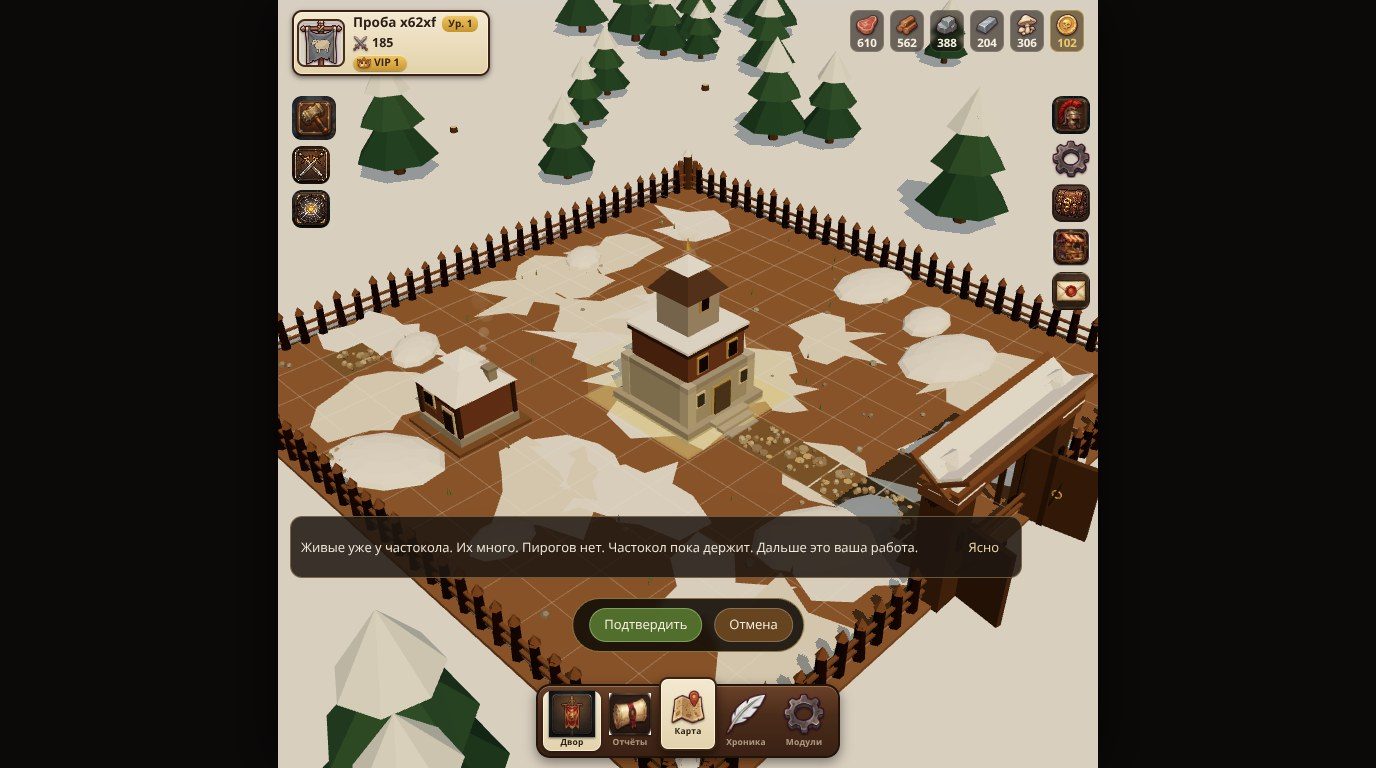
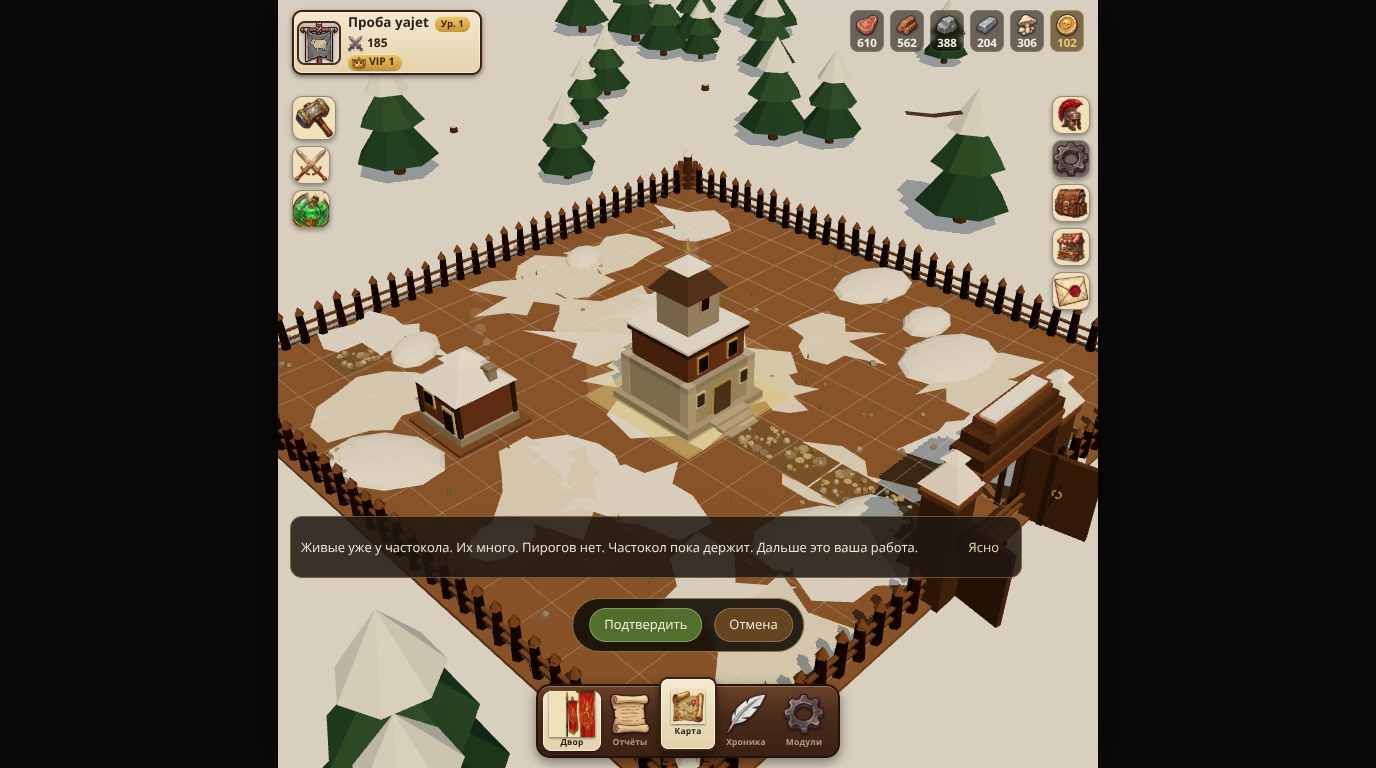
Раунд 5: наезд ресурсов вылечен (absolute->flex в court-mode), иконки «крем-предмет» без рамки (10 шт., исследование = колба), fmt: млн/млрд, ворота — ступенчатый фронтон вместо «балок»

diff --git a/apps/client/src/hud.css b/apps/client/src/hud.css
@@ -26,14 +26,23 @@
 
 /* ---------- панель персонажа: по прототипу docs/game/ui/hud (круг 15):
    портрет-ячейка 38px, ник, «Ур.» с полосой опыта, VIP-значок с короной ---------- */
-.hud-lord {
+.hud-top {
   position: fixed;
   left: 8px;
+  right: 8px;
   top: calc(6px + env(safe-area-inset-top));
   z-index: 20;
-  display: grid;
-  grid-template-columns: 44px 1fr;
+  display: flex;
   gap: 8px;
+  align-items: flex-start;
+}
+
+.hud-lord {
+  flex: 0 1 auto;
+  min-width: 0;
+  display: grid;
+  grid-template-columns: 40px 1fr;
+  gap: 7px;
   align-items: center;
   padding: 3px 10px 3px 3px;
   background: linear-gradient(180deg, #f3e9d0, #e3d2ab);
@@ -45,8 +54,8 @@
 
 .hud-lord .portrait {
   position: relative;
-  width: 44px;
-  height: 44px;
+  width: 40px;
+  height: 40px;
   border-radius: 8px;
   display: grid;
   place-items: center;
@@ -56,8 +65,8 @@
 }
 
 .hud-lord .portrait .hud-ic {
-  width: 42px;
-  height: 42px;
+  width: 38px;
+  height: 38px;
   object-fit: cover;
 }
 
@@ -78,8 +87,8 @@
 }
 
 .hud-lord .name-row b {
-  max-width: 108px;
-  font-size: 13px;
+  max-width: 96px;
+  font-size: 12.5px;
   line-height: 1.1;
   white-space: nowrap;
   overflow: hidden;
@@ -96,7 +105,7 @@
 
 .hud-lord .lvl-tag {
   font-style: normal;
-  font-size: 10px;
+  font-size: 9.5px;
   font-weight: 800;
   color: #3b2416;
   background: linear-gradient(180deg, #f0c866, #c8952e);
@@ -120,7 +129,7 @@
 }
 
 .hud-lord .power-row b {
-  font-size: 12.5px;
+  font-size: 12px;
   font-variant-numeric: tabular-nums;
 }
 
@@ -182,15 +191,16 @@
 /* ---------- ресурсы: правый верхний угол, колонкой (круг 17):
    иконка сверху, число под ней; зазор между чипами плотнее ---------- */
 .hud-res {
-  position: fixed;
-  left: calc(196px + env(safe-area-inset-left));
-  right: 8px;
-  top: calc(6px + env(safe-area-inset-top));
-  z-index: 20;
+  margin-left: auto;
   display: flex;
   gap: 5px;
   flex-wrap: nowrap;
   justify-content: flex-end;
+  min-width: 0;
+}
+
+.hud-res .chip b {
+  white-space: nowrap;
 }
 
 .hud-res .chip {
@@ -447,10 +457,6 @@
 
 /* узкие телефоны (<390): всё чуть плотнее, квадраты сохраняются */
 @media (max-width: 389px) {
-  .hud-res {
-    left: calc(150px + env(safe-area-inset-left));
-  }
-
   .hud-lord .portrait {
     width: 32px;
     height: 32px;
@@ -488,7 +494,7 @@
   }
 
   .hud-lord .name-row b {
-    max-width: 84px;
+    max-width: 78px;
   }
 
   .hud-rb {
@@ -535,22 +541,18 @@
 
 /* большие телефоны и малые планшеты (431–767): элементы крупнее */
 @media (min-width: 431px) {
-  .hud-res {
-    left: calc(216px + env(safe-area-inset-left));
-  }
-
   .hud-lord {
-    grid-template-columns: 48px 1fr;
+    grid-template-columns: 44px 1fr;
   }
 
   .hud-lord .portrait {
-    width: 48px;
-    height: 48px;
+    width: 44px;
+    height: 44px;
   }
 
   .hud-lord .portrait .hud-ic {
-    width: 46px;
-    height: 46px;
+    width: 42px;
+    height: 42px;
   }
 
   .hud-lord .name-row b {
@@ -616,12 +618,8 @@
 
 /* планшеты и десктоп: больше воздуха по краям (сцена и так до 820px) */
 @media (min-width: 768px) {
-  .hud-lord {
+  .hud-top {
     left: 14px;
-    top: calc(10px + env(safe-area-inset-top));
-  }
-
-  .hud-res {
     right: 14px;
     top: calc(10px + env(safe-area-inset-top));
   }
@@ -953,12 +951,11 @@
 .hud-queue,
 .hud-tab {
   padding: 0;
-  background: transparent;
-  border: none;
-  box-shadow: none;
-  backdrop-filter: none;
-  -webkit-backdrop-filter: none;
+  background: rgba(24, 15, 9, 0.55);
+  border: 1.5px solid rgba(239, 227, 198, 0.3);
+  box-shadow: 0 2px 5px rgba(0, 0, 0, 0.4);
   overflow: hidden;
+  border-radius: 10px;
 }
 
 .hud-rb .hud-ic,
@@ -966,6 +963,5 @@
 .hud-tab .hud-ic {
   width: 100%;
   height: 100%;
-  border-radius: 10px;
   object-fit: cover;
 }

diff --git a/apps/client/src/ui/Hud.tsx b/apps/client/src/ui/Hud.tsx
@@ -26,7 +26,7 @@ type PanelKind = "build" | "train" | "sci" | "commanders" | "clan" | "items" | "
     Все иконки HUD уникальны — повторов нет (круг 18). */
 const QUEUES: { kind: "train" | "sci"; icon: string; key: string }[] = [
   { kind: "train", icon: "swords", key: "shell.hud.queue.train" },
-  { kind: "sci", icon: "web", key: "shell.hud.queue.sci" },
+  { kind: "sci", icon: "flask", key: "shell.hud.queue.sci" },
 ];
 
 /** Правая колонка — служебные механики (решение заказчика из круга 4):
@@ -40,10 +40,10 @@ const TABS: { kind: Exclude<PanelKind, "build" | "train" | "sci" | null>; icon: 
 ];
 
 /** Короткий формат чисел: миллионы и миллиарды не ломают строку ресурсов (круг 15). */
+// числа (раунд 5): полностью до 100 999 999; сотни млн — «NNN млн»; миллиарды — «1.2 млрд»
 const fmt = (n: number) =>
-  n >= 1e9 ? `${(n / 1e9).toFixed(n % 1e9 ? 1 : 0)}B` :
-  n >= 1e6 ? `${(n / 1e6).toFixed(n % 1e6 ? 1 : 0)}M` :
-  n >= 1e4 ? `${(n / 1e3).toFixed(n % 1e3 ? 1 : 0)}K` :
+  n >= 1e9 ? `${(n / 1e9).toFixed(n % 1e9 ? 1 : 0)} млрд` :
+  n >= 1e8 ? `${Math.floor(n / 1e6)} млн` :
   String(n);
 
 /** Целевое левое меню (требования заказчика, круг 14) рисуется только из данных систем:
@@ -113,6 +113,8 @@ export function Hud({
     <>
       {/* панель персонажа по прототипу HUD: портрет-ячейка, ник, «Ур.» + полоса опыта, VIP.
           Уровень, опыт и VIP появят системы (этап C/D) — пока вид с честными стартовыми значениями. */}
+      {/* верхняя строка: карточка лорда и ресурсы — flex не даёт им пересечься */}
+      <div className="hud-top">
       {me ? (
         <div className="hud-lord">
           <span className="portrait" style={{ background: swatch(me.bannerColor) }}>
@@ -147,6 +149,7 @@ export function Hud({
             <b>{fmt(amount)}</b>
           </span>
         ))}
+      </div>
       </div>
 
       {/* левая панель: «Строить» и очереди (карта одна — в нижнем доке, круг 17) */}

diff --git a/apps/client/src/court/CourtScene.tsx b/apps/client/src/court/CourtScene.tsx
@@ -475,23 +475,27 @@ function Gatehouse() {
           </mesh>
         </group>
       ))}
-      {/* перемычка на башнях и двускатная крышка над воротами */}
+      {/* перемычка между башнями и ступенчатый фронтон: над проездом не нависает */}
       <mesh position={[7.7, 2.52, 0]} castShadow>
-        <boxGeometry args={[0.76, 0.24, 4.1]} />
+        <boxGeometry args={[0.72, 0.26, 2.68]} />
         <meshStandardMaterial color={C.logTip} roughness={0.95} />
       </mesh>
-      {[-1, 1].map((s) => (
-        <group key={`rf${s}`}>
-          <mesh position={[7.7 + s * 0.16, 2.82, 0]} rotation-z={s * 0.58} castShadow>
-            <boxGeometry args={[0.95, 0.07, 4.3]} />
-            <meshStandardMaterial color={C.logTip} roughness={0.9} flatShading />
-          </mesh>
-          <mesh position={[7.7 + s * 0.13, 2.88, 0]} rotation-z={s * 0.58}>
-            <boxGeometry args={[0.64, 0.05, 4.2]} />
-            <meshStandardMaterial color="#fbf8f0" roughness={0.8} flatShading />
-          </mesh>
-        </group>
-      ))}
+      <mesh position={[7.7, 2.78, 0]} castShadow>
+        <boxGeometry args={[0.66, 0.24, 2.6]} />
+        <meshStandardMaterial color={C.gate} roughness={0.95} flatShading />
+      </mesh>
+      <mesh position={[7.7, 3.02, 0]} castShadow>
+        <boxGeometry args={[0.56, 0.22, 2.2]} />
+        <meshStandardMaterial color={C.gate} roughness={0.95} flatShading />
+      </mesh>
+      <mesh position={[7.7, 3.24, 0]} castShadow>
+        <boxGeometry args={[0.44, 0.2, 1.8]} />
+        <meshStandardMaterial color={C.logTip} roughness={0.95} flatShading />
+      </mesh>
+      <mesh position={[7.7, 3.36, 0]}>
+        <boxGeometry args={[0.3, 0.06, 1.66]} />
+        <meshStandardMaterial color="#fbf8f0" roughness={0.8} flatShading />
+      </mesh>
       {/* фонарь под перемычкой — тёплая точка у входа */}
       <group position={[7.4, 0, 0]}>
         <mesh position={[0.09, 2.34, 0]}>

diff --git a/apps/client/src/ui/iconSrc.ts b/apps/client/src/ui/iconSrc.ts
@@ -1,20 +1,20 @@
 /**
- * Иконки интерфейса — сгенерированные плитки (арт занимает ячейку целиком).
- * Имена — ключи клеток левого столбика, правой колонки и дока.
+ * Иконки интерфейса — сгенерированные плитки (предмет крупно, фон плоский;
+ * рамку даёт ячейка интерфейса). Имена — ключи клеток HUD и дока.
  */
 export const ICON_SRC: Record<string, string> = {
   hammer: "icons/i-hammer.png",
   swords: "icons/i-swords.png",
-  web: "icons/i-web.png",
+  flask: "icons/i-flask.png",
   helmet: "icons/i-helmet.png",
   shield: "icons/i-shield.png",
   bag: "icons/i-bag.png",
   shop: "icons/i-shop.png",
   mail: "icons/i-mail.png",
   banner: "icons/i-banner.png",
-  scroll: "icons/i-scroll.png",
-  // догенерируются на следующем шаге — пока плитки из стартового набора
-  map: "icons/map.png",
+  map: "icons/i-map.png",
+  // следующий шаг генерации (временно плитки стартового набора)
+  scroll: "icons/scroll.png",
   quill: "icons/quill.png",
   gear: "icons/gear.png",
 };

diff --git a/tools/shots/walkthrough.ts b/tools/shots/walkthrough.ts
@@ -118,6 +118,24 @@ await clickButton("Занять двор");
 
 // двор: ждём HUD-блок лорда; canvas появляется, только если поднялся WebGL
 await page.waitForSelector(".hud-lord", { timeout: 30_000 });
+// замер верхней строки: карточка лорда и ресурсы не должны пересекаться
+await sleep(1200);
+const layout = (await page.evaluate(`(() => {
+  const rect = function (sel) {
+    const el = document.querySelector(sel);
+    if (!el) return null;
+    const r = el.getBoundingClientRect();
+    return { x: Math.round(r.x), y: Math.round(r.y), w: Math.round(r.width), h: Math.round(r.height), right: Math.round(r.right) };
+  };
+  return JSON.stringify({
+    top: rect(".hud-top"),
+    lord: rect(".hud-lord"),
+    res: rect(".hud-res"),
+    firstChip: rect(".hud-res .chip"),
+    lastChip: rect(".hud-res .chip:last-child"),
+  });
+})()`)) as string;
+console.log("  замер:", layout);
 let webgl = true;
 try {
   await page.waitForSelector("canvas", { timeout: 15_000 });

diff --git a/apps/client/src/styles.css b/apps/client/src/styles.css
@@ -62,8 +62,7 @@ button {
 }
 
 .court-mode .game-nav,
-.court-mode .hud-lord,
-.court-mode .hud-res,
+.court-mode .hud-top,
 .court-mode .hud-queues,
 .court-mode .hud-rb-row,
 .court-mode .hud-tabs,
